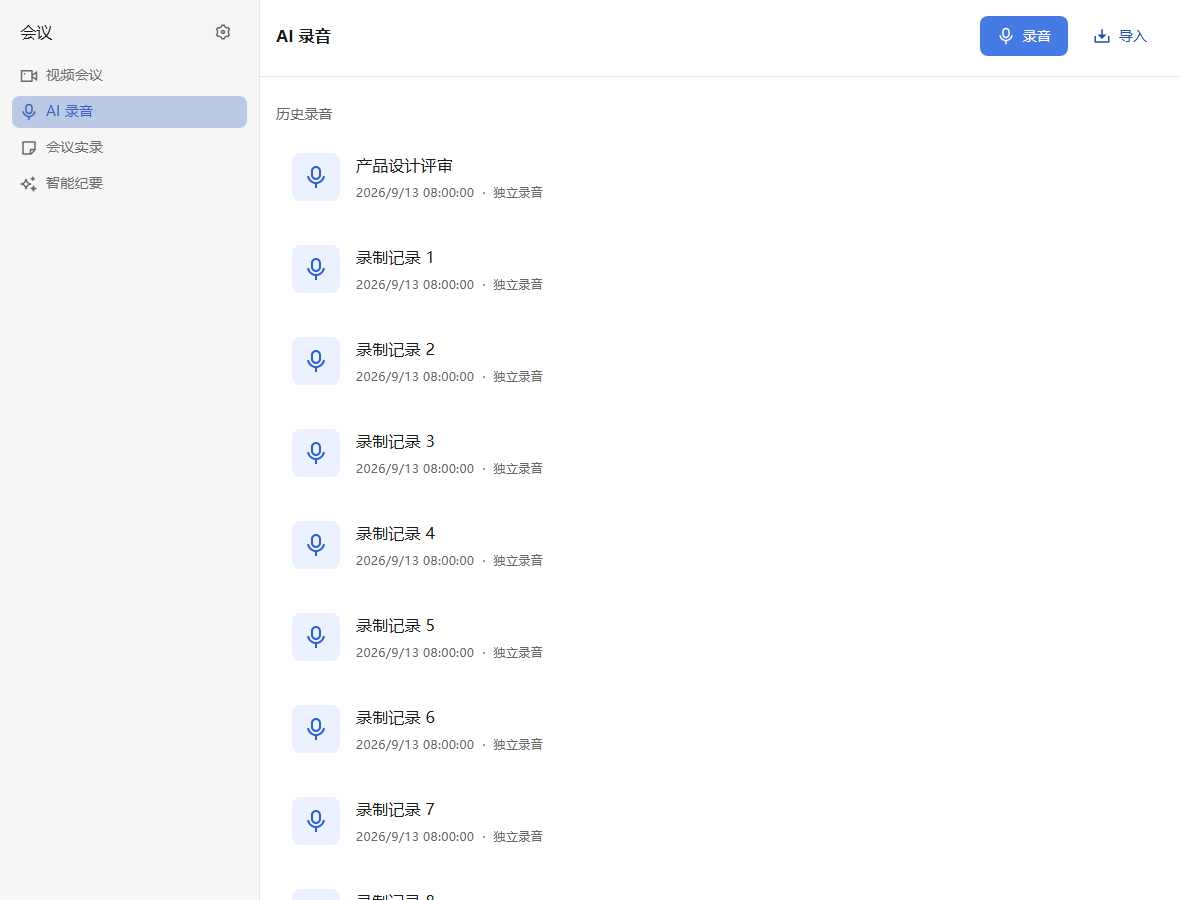
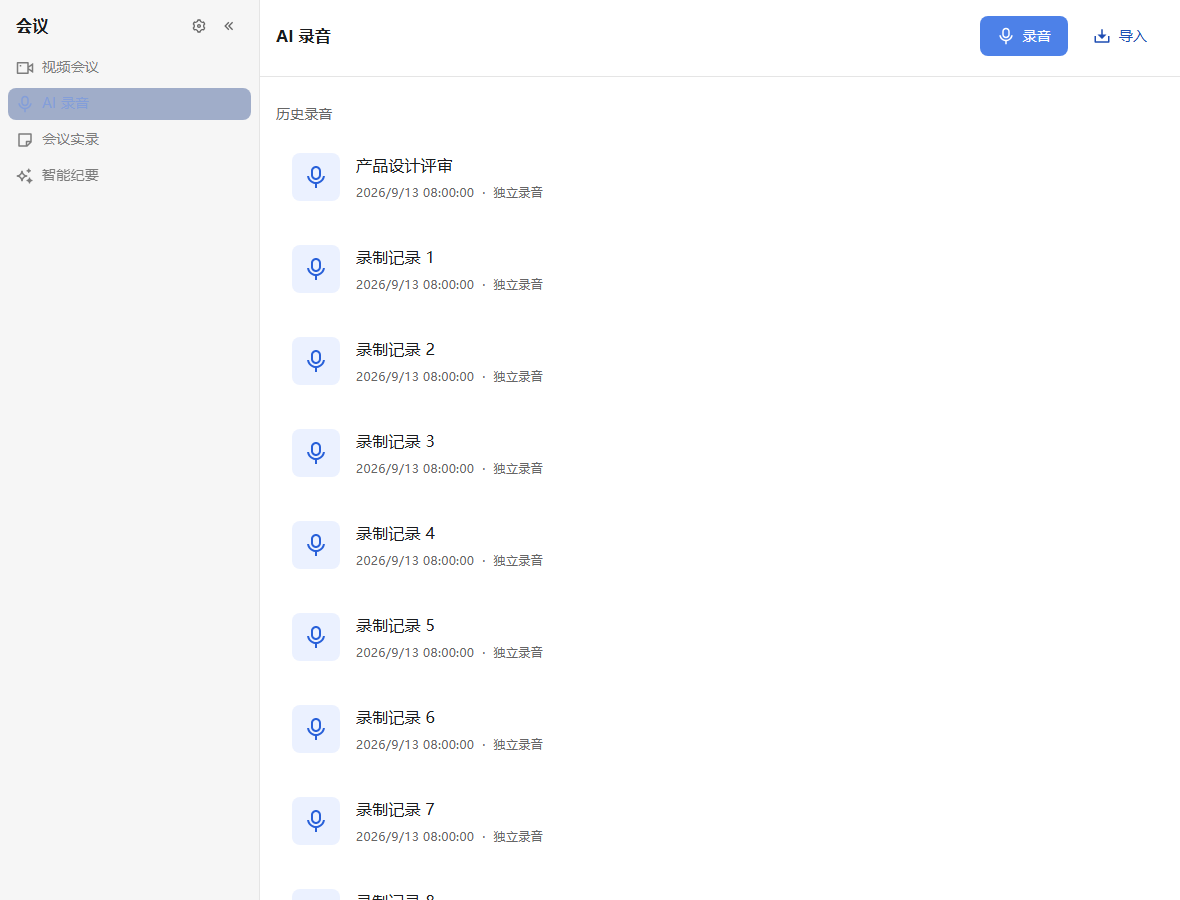
refactor(meetings): line the second-level nav header up with contacts
以「通讯录」左栏(ContactsSidebar)为基准,统一会议模块二级导航栏
(MeetingNavPanel)栏头的字号、位置与收起按钮:

- 标题:titleMedium 16px/500 -> 16px/bold(与通讯录同一档);
- 栏头内边距:从 aside 移到栏头这一行(16px / 12px),导航行容器补
  paddingX sm —— 标题左缘(16px)与导航行文字左缘(8+8=16px)才对得齐,
  这也是通讯录那边的做法;改前标题落在 20px;
- 收起按钮:右端新增一颗 28x28 的 IconButton(RiArrowLeftDoubleLine),
  位置与盒子档位都与通讯录那颗一致;
- 收起态:只留 36px 窄条 + 展开按钮(RiLayoutLeftLine),状态写
  localStorage('we-meet:meeting-nav-collapsed'),与通讯录同一套 storage 约定;
- 新增文案键 library.hideNav / library.showNav(zh/en,其余语言走 en 兜底)。

基元 IconButton 的盒子圆角是 control(8px),通讯录那颗手写的是 6px —— 会议
模块的文件在 check:foundations 的收口名单里,不允许写裸 6px,有意保留这 2px
差异。

验证:走查新增断言(标题 16px/700、左缘 16px、栏头内边距 16/12、收起按钮
28x28、收起后 36px 窄条且 localStorage=1、展开恢复),并存一张收起态截图;
MeetingNavPanel.test.tsx 补一条「收起 -> 窄条 -> 展开 -> 重挂载仍收起」;
vitest 160 文件 1034 条、lint / prettier / check:json / color / foundation /
tsc / build 全绿。

Changed region(s): [[0.0, 0.0, 0.2136, 0.2178]]

diff --git a/src/frontend/src/features/meetings/components/MeetingNavPanel.tsx b/src/frontend/src/features/meetings/components/MeetingNavPanel.tsx
@@ -1,7 +1,9 @@
-import { type ReactNode } from 'react'
+import { useState, type ReactNode } from 'react'
 import { useTranslation } from 'react-i18next'
 import { useLocation } from 'wouter'
 import {
+  RiArrowLeftDoubleLine,
+  RiLayoutLeftLine,
   RiVidiconLine,
   RiMicLine,
   RiStickyNoteLine,
@@ -16,6 +18,18 @@ import { openSystemSettings } from '@/stores/systemSettings'
 import { useConfig } from '@/api/useConfig'
 import { ResizablePanel } from '@/components/ResizablePanel'
 
+/** 左栏收起态跨路由持久化(与通讯录同一套 storage 约定)。 */
+const NAV_COLLAPSED_KEY = 'we-meet:meeting-nav-collapsed'
+
+const readCollapsed = () => {
+  try {
+    return localStorage.getItem(NAV_COLLAPSED_KEY) === '1'
+  } catch {
+    // 隐私模式:这次会话里仍然能收起/展开,只是不记住。
+    return false
+  }
+}
+
 /** Shared module navigation: video meetings, recording, records and minutes. */
 export const MeetingNavPanel = () => {
   // 必须把 settings 一并列上:语言包是 resourcesToBackend 懒加载的,
@@ -24,6 +38,18 @@ export const MeetingNavPanel = () => {
   const { t } = useTranslation(['shell', 'meetings', 'settings'])
   const { data } = useConfig()
   const [location] = useLocation()
+  const [collapsed, setCollapsed] = useState(readCollapsed)
+
+  const toggleCollapsed = () => {
+    setCollapsed((previous) => {
+      try {
+        localStorage.setItem(NAV_COLLAPSED_KEY, previous ? '0' : '1')
+      } catch {
+        // 隐私模式:这次会话里仍然能收起/展开,只是不记住。
+      }
+      return !previous
+    })
+  }
 
   const current = (path: string) => {
     const selected =
@@ -34,6 +60,22 @@ export const MeetingNavPanel = () => {
     return selected ? 'page' : undefined
   }
 
+  // 收起态:只留一条 36px 窄条,把 260px 还给正文;「展开」按钮就在窄条里 ——
+  // 与通讯录左栏同一套(那边收起后也是留窄条,任何视图下都找得到展开入口)。
+  if (collapsed)
+    return (
+      <div className={navStripCls}>
+        <IconButton
+          size="icon28"
+          label={t('library.showNav')}
+          onPress={toggleCollapsed}
+          data-testid="meeting-nav-expand"
+        >
+          <RiLayoutLeftLine size={16} aria-hidden="true" />
+        </IconButton>
+      </div>
+    )
+
   return (
     <>
       <ResizablePanel
@@ -42,57 +84,38 @@ export const MeetingNavPanel = () => {
         min={220}
         max={460}
       >
-        <aside
-          className={css({
-            width: '100%',
-            height: '100%',
-            borderRight: '1px solid token(colors.border.subtle)',
-            backgroundColor: 'subNavBg',
-            // 内边距/行距与「审批」二级导航取同一档,两个模块并排看才是一套。
-            paddingY: 'lg',
-            paddingX: 'md',
-            display: 'flex',
-            flexDirection: 'column',
-            gap: 'xs',
-          })}
-        >
-          <div
-            className={css({
-              display: 'flex',
-              alignItems: 'center',
-              justifyContent: 'space-between',
-              gap: 'sm',
-              marginBottom: 'sm',
-              paddingX: 'sm',
-            })}
-          >
-            <h1
-              className={css({
-                textStyle: 'titleMedium',
-                color: 'text.primary',
-                margin: 0,
-              })}
-            >
+        <aside className={asideCls}>
+          {/* 栏头几何/字号与「通讯录」二级导航的栏头逐项对齐(2026-09-17):
+              paddingX 1rem + paddingY 0.75rem、16px bold 标题、右端一颗 28px 的
+              收起按钮。内边距放在这一行而不是 aside 上,标题的左缘才与导航行
+              (容器 8 + 行内 8 = 16px)齐平。 */}
+          <div className={headerCls}>
+            <h2 className={panelTitleCls}>
               {t('nav.meeting', { ns: 'shell' })}
-            </h1>
+            </h2>
             {/* 面板头动作走 IconButton:悬停/pressed/focus-visible、无障碍名与
                 Tooltip 由基元一处给出,不再手搓方框热区。 */}
-            <IconButton
-              size="icon32"
-              label={t('systemSettings.nav.meeting', { ns: 'settings' })}
-              onPress={() => openSystemSettings('meeting')}
-              data-testid="meeting-settings"
-            >
-              <RiSettings3Line size={18} aria-hidden="true" />
-            </IconButton>
+            <div className={headerActionsCls}>
+              <IconButton
+                size="icon28"
+                label={t('systemSettings.nav.meeting', { ns: 'settings' })}
+                onPress={() => openSystemSettings('meeting')}
+                data-testid="meeting-settings"
+              >
+                <RiSettings3Line size={16} aria-hidden="true" />
+              </IconButton>
+              {/* 收起整栏:与通讯录同一位置(栏头最右)、同一档盒子。 */}
+              <IconButton
+                size="icon28"
+                label={t('library.hideNav')}
+                onPress={toggleCollapsed}
+                data-testid="meeting-nav-collapse"
+              >
+                <RiArrowLeftDoubleLine size={16} aria-hidden="true" />
+              </IconButton>
+            </div>
           </div>
-          <div
-            className={css({
-              display: 'flex',
-              flexDirection: 'column',
-              gap: 'xs',
-            })}
-          >
+          <div className={rowsCls}>
             <NavRow
               icon={<RiVidiconLine size={18} aria-hidden="true" />}
               label={t('library.video', { ns: 'meetings' })}
@@ -199,4 +222,64 @@ const navRowActive = css({
   backgroundColor: 'selected.bg',
   color: 'selected.text',
   fontWeight: 500,
+})
+
+/**
+ * 左栏本体与栏头。
+ *
+ * 栏头几何/字号以「通讯录」二级导航为基准(`ContactsSidebar` 的 header):
+ * `paddingX: 1rem` + `paddingY: 0.75rem`、`space-between`、标题 16px bold。
+ * aside **不带内边距** —— 内边距由栏头与导航行两个容器各自带,标题的左缘才和
+ * 导航行文字(容器 8 + 行内 8 = 16px)齐平,与通讯录一致。
+ */
+const asideCls = css({
+  width: '100%',
+  height: '100%',
+  borderRight: '1px solid token(colors.border.subtle)',
+  backgroundColor: 'subNavBg',
+  display: 'flex',
+  flexDirection: 'column',
+})
+
+const headerCls = css({
+  display: 'flex',
+  alignItems: 'center',
+  justifyContent: 'space-between',
+  gap: 'sm',
+  paddingX: 'lg',
+  paddingY: 'md',
+})
+
+const panelTitleCls = css({
+  textStyle: 'titleMedium',
+  fontWeight: 'bold',
+  color: 'text.primary',
+  margin: 0,
+})
+
+const headerActionsCls = css({
+  flexShrink: 0,
+  display: 'flex',
+  alignItems: 'center',
+  gap: 'xxs',
+})
+
+const rowsCls = css({
+  display: 'flex',
+  flexDirection: 'column',
+  gap: 'xs',
+  paddingX: 'sm',
+})
+
+/** 收起后的窄条:宽度、上边距与通讯录那条一致,底色跟着二级导航栏走。 */
+const navStripCls = css({
+  flexShrink: 0,
+  width: '36px',
+  height: '100%',
+  display: 'flex',
+  flexDirection: 'column',
+  alignItems: 'center',
+  paddingTop: 'md',
+  borderRight: '1px solid token(colors.border.subtle)',
+  backgroundColor: 'subNavBg',
 })

diff --git a/src/frontend/src/features/meetings/components/MeetingNavPanel.test.tsx b/src/frontend/src/features/meetings/components/MeetingNavPanel.test.tsx
@@ -82,4 +82,29 @@ describe('meeting module navigation', () => {
       screen.queryByRole('button', { name: 'library.record' })
     ).not.toBeInTheDocument()
   })
+
+  it('collapses the whole column to a strip and remembers it', () => {
+    localStorage.removeItem('we-meet:meeting-nav-collapsed')
+    const view = render(<MeetingNavPanel />)
+    fireEvent.click(screen.getByTestId('meeting-nav-collapse'))
+    // 收起后整栏只剩「展开」那一颗,导航入口都不在(与通讯录同一套)。
+    expect(screen.getByTestId('meeting-nav-expand')).toBeInTheDocument()
+    expect(
+      screen.queryByRole('button', { name: 'library.video' })
+    ).not.toBeInTheDocument()
+    expect(localStorage.getItem('we-meet:meeting-nav-collapsed')).toBe('1')
+    // 展开后恢复四节入口,并把收起态清掉。
+    fireEvent.click(screen.getByTestId('meeting-nav-expand'))
+    expect(
+      screen.getByRole('button', { name: 'library.video' })
+    ).toBeInTheDocument()
+    expect(localStorage.getItem('we-meet:meeting-nav-collapsed')).toBe('0')
+    // 收起态写进 localStorage:重新挂载(换页/重开)仍是收起的。
+    fireEvent.click(screen.getByTestId('meeting-nav-collapse'))
+    expect(localStorage.getItem('we-meet:meeting-nav-collapsed')).toBe('1')
+    view.unmount()
+    render(<MeetingNavPanel />)
+    expect(screen.getByTestId('meeting-nav-expand')).toBeInTheDocument()
+    localStorage.removeItem('we-meet:meeting-nav-collapsed')
+  })
 })

diff --git a/CHANGELOG.md b/CHANGELOG.md
@@ -125,6 +125,8 @@ and this project adheres to
   their headers carry the title alone
 - ♻(frontend) restyle the meeting module page headers after the chat title
   bar: white band, 16px title, tighter padding, borderless actions
+- ♻(frontend) line the meeting module second-level nav header up with the
+  contacts one and let the whole column collapse to a 36px strip
 
 ### Fixed
 
